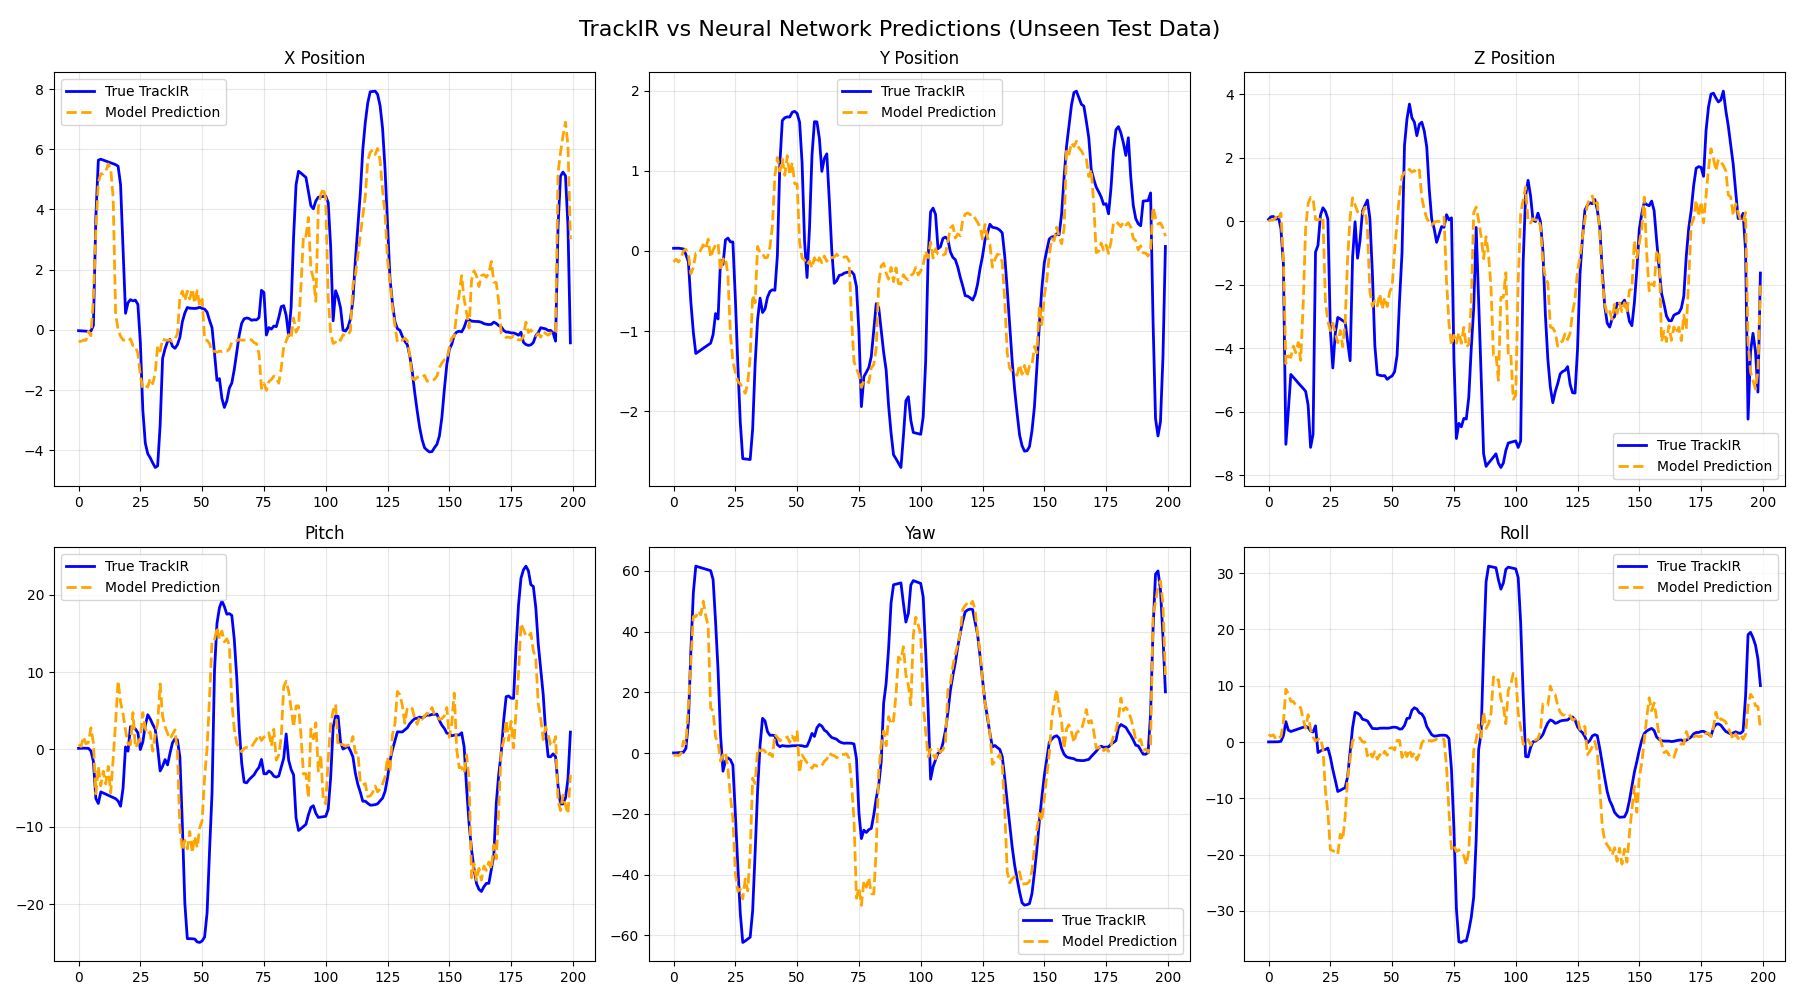
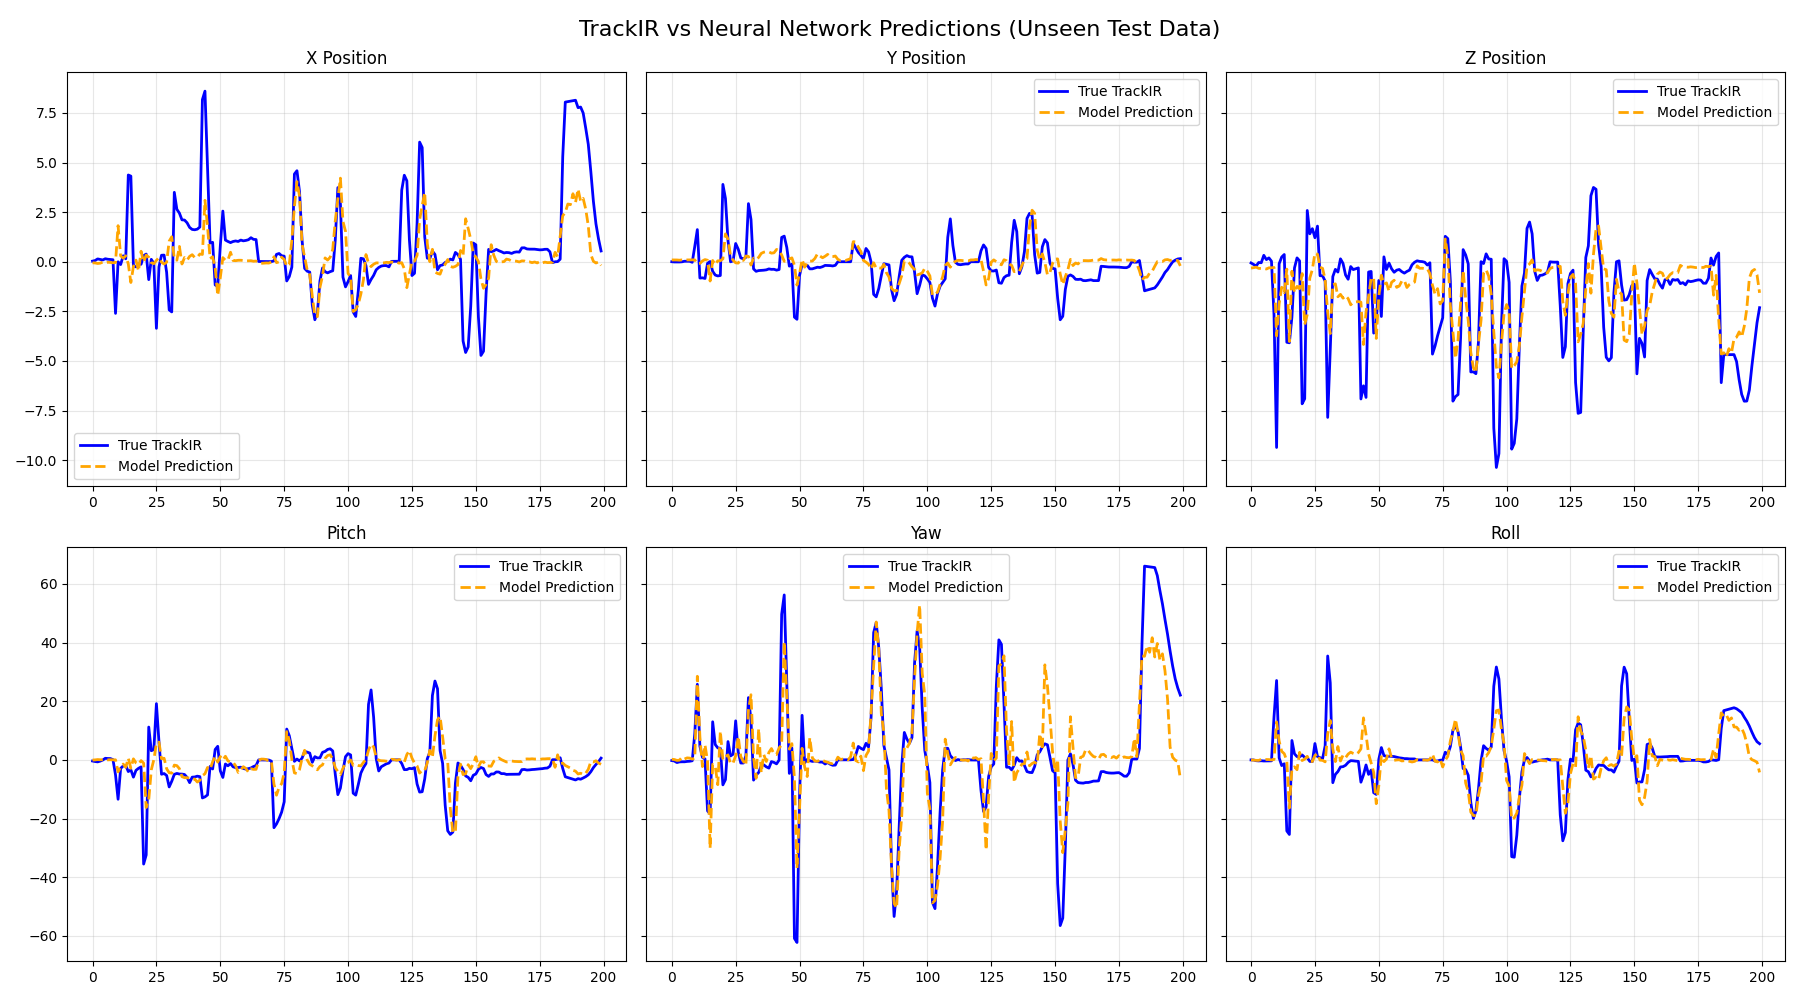
updated evaluation files with tolerances and added new models comparison

diff --git a/evaluate.py b/evaluate.py
@@ -1,7 +1,7 @@
 import torch
 import numpy as np
 import matplotlib.pyplot as plt
-from dataloader import get_dataloaders
+from dataloader_windowfiltering import get_dataloaders
 from models_guillermo.simple_cnn import SimpleCNN
 from models_guillermo.cnn_lstm import SenseMat_CNN_LSTM
 from models_guillermo.resnet_lstm import SenseMat_ResNet_LSTM
@@ -11,13 +11,13 @@ from models_guillermo.cnn_transformer import SenseMat_CNN_Transformer
 # ==========================================
 # CONFIGURATION
 # ==========================================
-SELECTED_MODEL = "CNN-LSTM" # Options: "SIMPLE-CNN", "CNN-LSTM", "RESNET-LSTM", "TRANSFORMER", "CNN-TRANSFORMER"
-MODEL_WEIGHTS = "saved_models/cnn-lstm_v1.pth"
+SELECTED_MODEL = "SIMPLE-CNN" # Options: "SIMPLE-CNN", "CNN-LSTM", "RESNET-LSTM", "TRANSFORMER", "CNN-TRANSFORMER"
+MODEL_WEIGHTS = "saved_models/simple-cnn_v4.pth"
 DATA_ROOT = ""
 
 def plot_tracking_results(targets, predictions):
     """Generates a visual comparison of True vs Predicted trajectories."""
-    fig, axes = plt.subplots(2, 3, figsize=(18, 10))
+    fig, axes = plt.subplots(2, 3, figsize=(18, 10), sharey='row')
     fig.suptitle('TrackIR vs Neural Network Predictions (Unseen Test Data)', fontsize=16)
     
     titles = ['X Position', 'Y Position', 'Z Position', 'Pitch', 'Yaw', 'Roll']
@@ -48,7 +48,10 @@ def main():
         batch_size=32,
         train_ratio=0.70,
         val_ratio=0.15,
-        seed=42
+        seed=26,
+        quality="standard",
+        iqr_multiplier=3.0,
+        debug=False
     )
     
     # 2. Initialize Model and Load Weights
@@ -99,20 +102,63 @@ def main():
     targets_array = np.vstack(all_targets)
     
     # 4. Calculate Clinical Metrics (Mean Absolute Error)
-    # MAE is much easier for humans to interpret than Mean Squared Error
-    mae_per_axis = np.mean(np.abs(predictions_array - targets_array), axis=0)
+    # Calculate the absolute error for every single prediction using your stacked arrays
+    absolute_errors = np.abs(predictions_array - targets_array)
     
-    print("\n=== CLINICAL ACCURACY (Mean Absolute Error) ===")
-    print(f"Position X: {mae_per_axis[0]:.4f}")
-    print(f"Position Y: {mae_per_axis[1]:.4f}")
-    print(f"Position Z: {mae_per_axis[2]:.4f}")
-    print("---")
-    print(f"Rotation Pitch: {mae_per_axis[3]:.4f}")
-    print(f"Rotation Yaw  : {mae_per_axis[4]:.4f}")
-    print(f"Rotation Roll : {mae_per_axis[5]:.4f}")
-    print("===============================================")
+    axis_labels = [
+        "Position X", "Position Y", "Position Z", 
+        "Rotation Pitch", "Rotation Yaw", "Rotation Roll"
+    ]
+    percentiles_to_calc = [50, 75, 90]
+
+    print("\n=== CLINICAL ACCURACY (MAE & Percentiles) ===")
+
+    for i, label in enumerate(axis_labels):
+        # Slice the specific column (0 through 5)
+        column_errors = absolute_errors[:, i]
+        
+        # Calculate MAE
+        mae = np.mean(column_errors)
+        
+        # Calculate the percentiles
+        p_vals = np.percentile(column_errors, percentiles_to_calc)
+        
+        # Print the formatted block
+        print(f"{label}:")
+        print(f"  MAE   : {mae:.4f}")
+        print(f"  P50   : {p_vals[0]:.4f}")
+        print(f"  P75   : {p_vals[1]:.4f}")
+        print(f"  P90   : {p_vals[2]:.4f}")
+        print("-" * 47)
     
-    # 5. Generate Visuals
+    # 5. Calculate Clinical Tolerance Pass Rates
+    print("\n=== CLINICAL ACCURACY (Tolerance Pass Rates) ===")
+    
+    translation_thresholds = [0.5, 1.0, 2.0]  # in cm
+    rotation_thresholds = [10.0, 20.0, 30.0]  # in degrees
+
+    for i, label in enumerate(axis_labels):
+        column_errors = absolute_errors[:, i]
+        
+        print(f"{label}:")
+        
+        # Route the thresholds: X, Y, Z (indices 0, 1, 2) use cm. Pitch, Yaw, Roll use degrees.
+        if i < 3:
+            thresholds = translation_thresholds
+            unit = "cm " # Space added for visual alignment
+        else:
+            thresholds = rotation_thresholds
+            unit = "deg"
+            
+        # Calculate the percentage of predictions that fall UNDER each threshold
+        for t in thresholds:
+            # np.mean() on a boolean array (True/False) calculates the exact proportion of True values
+            pass_rate = np.mean(column_errors <= t) * 100
+            print(f"  ≤ {t:<4} {unit}: {pass_rate:6.2f}%")
+            
+        print("-" * 47)
+
+    # 6. Generate Visuals
     plot_tracking_results(targets_array, predictions_array)
 
 if __name__ == "__main__":

diff --git a/benchmark.py b/benchmark.py
@@ -1,0 +1,77 @@
+import torch
+import time
+import numpy as np
+
+# Import your champion model
+from models_guillermo.simple_cnn import SimpleCNN
+from models_guillermo.cnn_lstm import SenseMat_CNN_LSTM
+from models_guillermo.resnet_lstm import SenseMat_ResNet_LSTM
+from models_guillermo.transformer import SenseMatTransformer
+from models_guillermo.cnn_transformer import SenseMat_CNN_Transformer
+
+def main():
+    print("=== SENSEMAT LATENCY BENCHMARK ===")
+    
+    # 1. Setup Environment
+    device = torch.device("cuda" if torch.cuda.is_available() else "cpu")
+    print(f"Target Hardware: {device.type.upper()}")
+    
+    # 2. Load Model
+    model = SenseMat_CNN_Transformer()
+    model.load_state_dict(torch.load("saved_models/cnn-transformer_v4.pth", map_location=device))
+    model.to(device)
+    model.eval()  # CRITICAL: Turns off Dropout and BatchNorm layers
+    
+    # 3. Create a "Dummy" Hospital Bed Window
+    # Shape: (Batch=1, Time=20, Rows=16, Cols=8)
+    dummy_input = torch.randn(1, 20, 16, 8, dtype=torch.float32).to(device)
+    
+    # ==========================================
+    # PHASE 1: THE WARM-UP
+    # ==========================================
+    # PyTorch is slow on its first few inferences because it has to allocate RAM/VRAM.
+    print("\nWarming up silicon...")
+    with torch.no_grad():
+        for _ in range(20):
+            _ = model(dummy_input)
+            
+    # ==========================================
+    # PHASE 2: THE SPRINT
+    # ==========================================
+    ITERATIONS = 1000
+    times = []
+    
+    print(f"Running {ITERATIONS} continuous inferences...")
+    
+    with torch.no_grad():
+        for _ in range(ITERATIONS):
+            start_time = time.perf_counter()
+            _ = model(dummy_input)
+            
+            # If using GPU, we must force PyTorch to wait until the calculation is actually finished
+            if device.type == 'cuda':
+                torch.cuda.synchronize()
+                
+            end_time = time.perf_counter()
+            times.append((end_time - start_time) * 1000)  # Convert seconds to milliseconds
+
+    # ==========================================
+    # 4. DIAGNOSIS
+    # ==========================================
+    avg_time = np.mean(times)
+    p95_time = np.percentile(times, 95)  # 95% of predictions are faster than this
+    
+    print("\n=== RESULTS ===")
+    print(f"Average Latency: {avg_time:.2f} ms")
+    print(f"95th Percentile: {p95_time:.2f} ms")
+    
+    # The ultimate deployment check
+    if avg_time < 500.0:
+        print("\n✅ DEPLOYMENT STATUS: PASS")
+        print("Model processes a 0.5s window faster than real-time.")
+    else:
+        print("\n❌ DEPLOYMENT STATUS: FAIL")
+        print("Model takes longer to think than the movement takes to happen.")
+
+if __name__ == "__main__":
+    main()

diff --git a/model_comparison.py b/model_comparison.py
@@ -1,0 +1,49 @@
+import matplotlib.pyplot as plt
+import numpy as np
+
+# --- 1. YOUR HARD DATA ---
+models =          ['Simple CNN', 'CNN-LSTM', 'ResNet-LSTM', 'Transformer', 'CNN-Trans']
+mae_scores =      [1.98,         1.96,       2.06,          2.02,          2.05] # weighted mean: (x+y+z/3)+(roll+pitch+yaw/30)
+inference_times = [0.65,         2.77,       4.05,          0.85,          3.18] # in milliseconds
+model_sizes =     [0.24,         0.69,       1.10,          0.16,          0.90]  # in Millions of Parameters
+
+def plot_pareto_frontiers():
+    print("=== GENERATING PARETO FRONTIER PLOTS ===")
+    
+    fig, axes = plt.subplots(1, 2, figsize=(16, 6))
+    fig.suptitle('SenseMat real-time implementation: Accuracy vs. Speed and Size', fontsize=16, fontweight='bold')
+    
+    # --- Plot 1: MAE vs Inference Time ---
+    ax1 = axes[0]
+    ax1.scatter(inference_times, mae_scores, s=150, c='royalblue', edgecolors='black', zorder=3)
+    
+    for i, txt in enumerate(models):
+        ax1.annotate(txt, (inference_times[i], mae_scores[i]), 
+                     xytext=(10, 5), textcoords='offset points', fontsize=10)
+        
+    ax1.set_title('Real-Time Latency & Hardware Efficiency', fontsize=14)
+    ax1.set_xlabel('Inference latency (Milliseconds)', fontsize=12)
+    ax1.set_ylabel('Weighted Mean Absolute Error', fontsize=12)
+    ax1.grid(True, alpha=0.4, linestyle='--')
+    ax1.invert_yaxis() # Invert because lower MAE is better
+    
+    # --- Plot 2: MAE vs Model Size ---
+    ax2 = axes[1]
+    ax2.scatter(model_sizes, mae_scores, s=150, c='darkorange', edgecolors='black', zorder=3)
+    
+    for i, txt in enumerate(models):
+        ax2.annotate(txt, (model_sizes[i], mae_scores[i]), 
+                     xytext=(10, 5), textcoords='offset points', fontsize=10)
+        
+    ax2.set_title('Memory Efficiency (Accuracy vs Size)', fontsize=14)
+    ax2.set_xlabel('Model Size (Millions of Parameters)', fontsize=12)
+    ax2.set_ylabel('Weighted Mean Absolute Error', fontsize=12)
+    ax2.grid(True, alpha=0.4, linestyle='--')
+    ax2.invert_yaxis()
+    
+    plt.tight_layout()
+    plt.savefig("model_comparison_plots.png", dpi=300, bbox_inches='tight')
+    print("Successfully saved plots to 'model_comparison_plots.png'")
+
+if __name__ == "__main__":
+    plot_pareto_frontiers()

diff --git a/count_params.py b/count_params.py
@@ -1,0 +1,29 @@
+# 1. Import your model architectures
+from models_guillermo.simple_cnn import SimpleCNN
+from models_guillermo.cnn_lstm import SenseMat_CNN_LSTM
+from models_guillermo.resnet_lstm import SenseMat_ResNet_LSTM
+from models_guillermo.transformer import SenseMatTransformer
+from models_guillermo.cnn_transformer import SenseMat_CNN_Transformer
+
+# 2. Define the helper function
+def count_parameters(model):
+    """Counts only the trainable weights in a PyTorch model."""
+    return sum(p.numel() for p in model.parameters() if p.requires_grad)
+
+def main():
+    # 3. Instantiate the model (no weights or data needed)
+    print("Spinning up architectures for physical sizing...")
+    model = SenseMat_CNN_Transformer()
+    
+    # 4. Count the parameters
+    total_params = count_parameters(model)
+    
+    # 5. Format for your Pareto Plot (in Millions)
+    size_in_millions = total_params / 1_000_000
+    
+    print("\n=== MODEL SIZES ===")
+    print(f"Model: {total_params:,} total weights")
+    print(f"Plot Value: {size_in_millions:.2f}M")
+
+if __name__ == "__main__":
+    main()